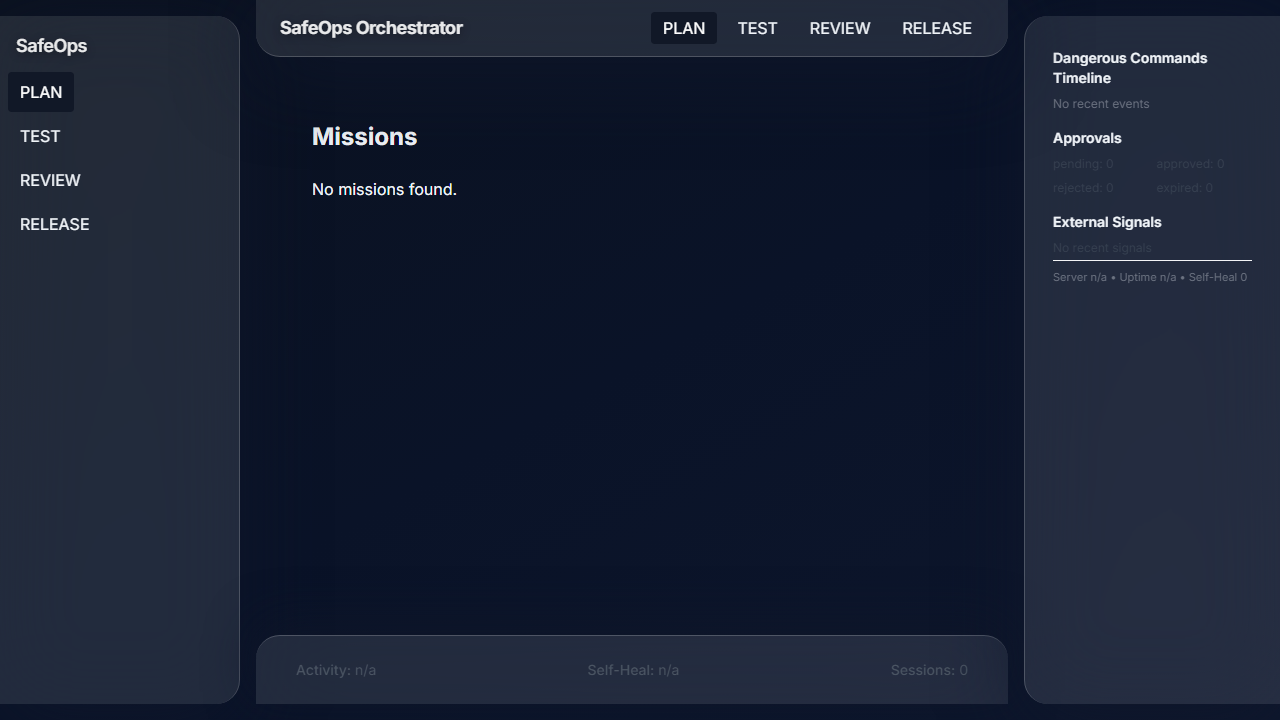
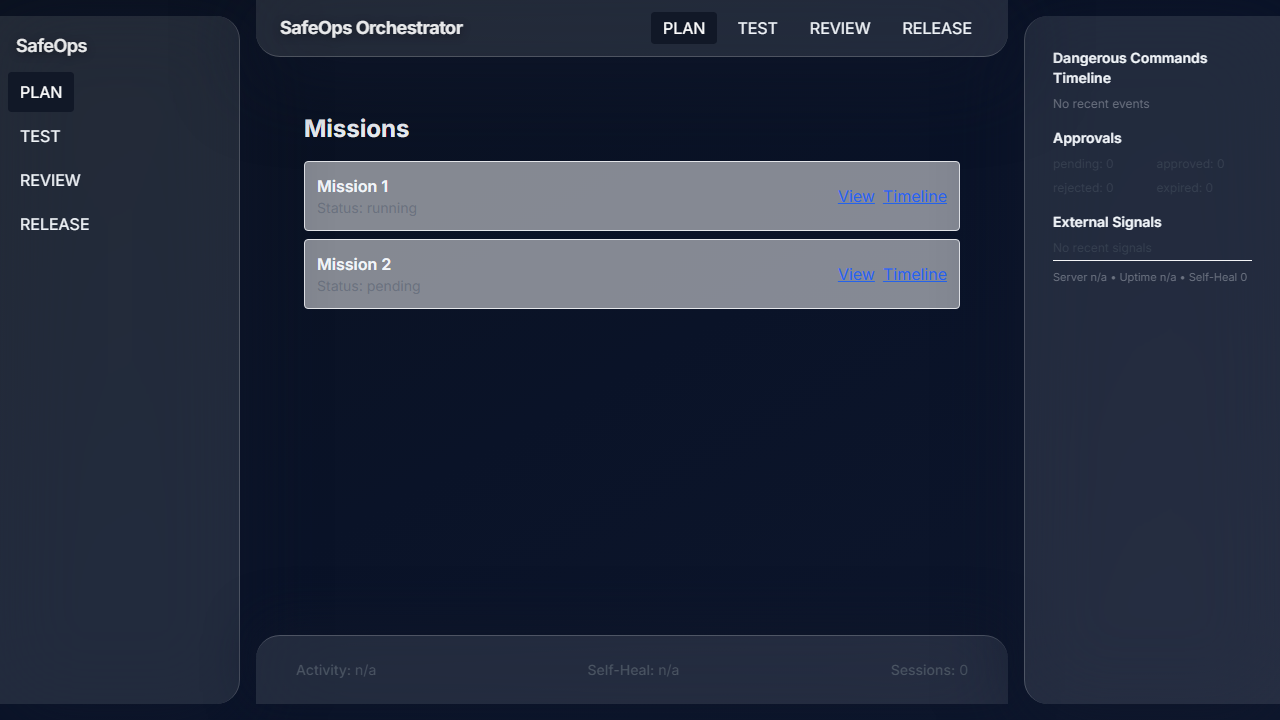
[FIX] #none - resolve missions main landmark and e2e axe

Changed region(s): [[0.2188, 0.1528, 0.75, 0.4278]]

diff --git a/apps/orchestrator-ui/app/missions/page.tsx b/apps/orchestrator-ui/app/missions/page.tsx
@@ -7,28 +7,32 @@ const missions = [
 
 export default function MissionsPage() {
   return (
-    <main className="p-6 space-y-4">
-      <h1 className="text-2xl font-bold">Missions</h1>
-      <ul className="space-y-2">
-        {missions.map((m) => (
-          <li key={m.id} className="border rounded p-3 bg-white/50">
-            <div className="flex items-center justify-between">
-              <div>
-                <div className="font-semibold">{m.title}</div>
-                <div className="text-sm text-gray-500">Status: {m.status}</div>
+    <div className="p-6 space-y-4">
+      <header>
+        <h1 className="text-2xl font-bold">Missions</h1>
+      </header>
+      <section aria-label="Mission list">
+        <ul className="space-y-2">
+          {missions.map((m) => (
+            <li key={m.id} className="border rounded p-3 bg-white/50">
+              <div className="flex items-center justify-between">
+                <div>
+                  <div className="font-semibold">{m.title}</div>
+                  <div className="text-sm text-gray-500">Status: {m.status}</div>
+                </div>
+                <div className="space-x-2">
+                  <Link className="text-blue-600 underline" href={`/missions/${m.id}`}>
+                    View
+                  </Link>
+                  <Link className="text-blue-600 underline" href={`/missions/${m.id}/timeline`}>
+                    Timeline
+                  </Link>
+                </div>
               </div>
-              <div className="space-x-2">
-                <Link className="text-blue-600 underline" href={`/missions/${m.id}`}>
-                  View
-                </Link>
-                <Link className="text-blue-600 underline" href={`/missions/${m.id}/timeline`}>
-                  Timeline
-                </Link>
-              </div>
-            </div>
-          </li>
-        ))}
-      </ul>
-    </main>
+            </li>
+          ))}
+        </ul>
+      </section>
+    </div>
   );
 }

diff --git a/apps/orchestrator-ui/playwright.config.ts b/apps/orchestrator-ui/playwright.config.ts
@@ -11,7 +11,7 @@ export default defineConfig({
   webServer: {
     command: 'next dev -p 3000',
     url: 'http://localhost:3000',
-    reuseExistingServer: false,
+    reuseExistingServer: true,
     timeout: 120_000,
     env: {
       NEXT_PUBLIC_SAFEOPS_API_BASE: 'http://localhost:8787',

diff --git a/notes/agent_md.md b/notes/agent_md.md
@@ -33,7 +33,7 @@ Windows 環境での UI Gate / CI 運用を安定させるため、pytest ショ
 - tests/test_missions_api.py: missions/artifacts API に加え、/missions/{id}/run（allow_self_heal トグル）と 404/422 エラー系を FastAPI + AsyncClient で検証。
 - reports/test/pytest_phase2a_run.txt + observability/policy/ci_evidence.jsonl: Pytest short suite（mission API + workflow + http、`-q`）を再実行し、`command`/SHA付きで再記録。
 - reports/test/ruff_phase2a_run.txt + observability/policy/ci_evidence.jsonl: `python -m ruff check src tests scripts` を実行し（出力なし）、成功エントリとして記録。
-- reports/test/npm_orchestrator_ui.txt + observability/policy/ci_evidence.jsonl: UI 資産移植後に `npm run lint && npm run test && npm run test:e2e --prefix apps/orchestrator-ui` を実行し、Jest/Playwright/axe PASS を記録。
+- reports/test/npm_orchestrator_ui.txt + observability/policy/ci_evidence.jsonl: `npm run lint && npm run test && npm run test:e2e --prefix apps/orchestrator-ui` を実行し、Jest/Playwright/axe PASS を記録（Missionsページの main 重複を解消後）。
 - reports/test/ui_audit_run.txt + observability/policy/ci_evidence.jsonl: `python scripts/ui_audit_run.py` を走らせ、UI 資産ありで再実行した記録を追加（標準出力なし）。
 - tests/test_missions_api.py: Phase 2A の missions/artifacts API を FastAPI + TestClient で exercise し、Artifact 作成時に Knowledge が生成されることと 404 のエラーパスを検証。
 - reports/test/pytest_phase2a_run.txt + observability/policy/ci_evidence.jsonl: Phase 2A short-suite pytest 実行を記録（テストコマンド/結果と SHA を保持）。
